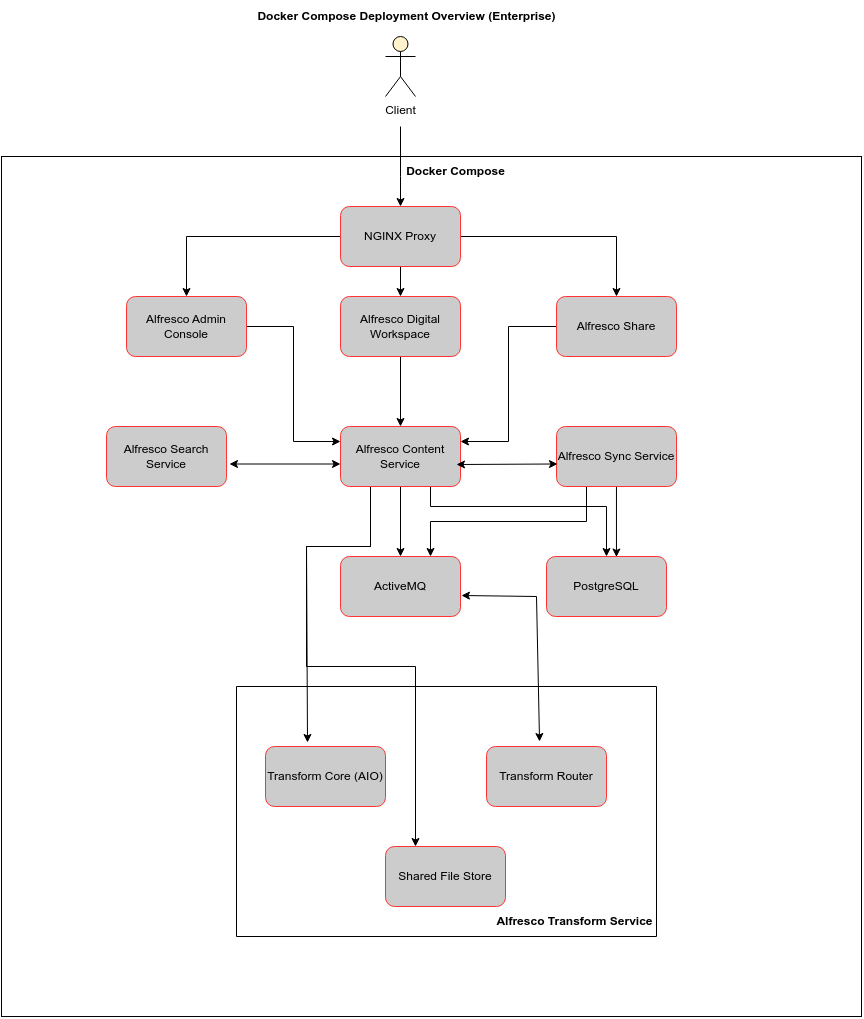
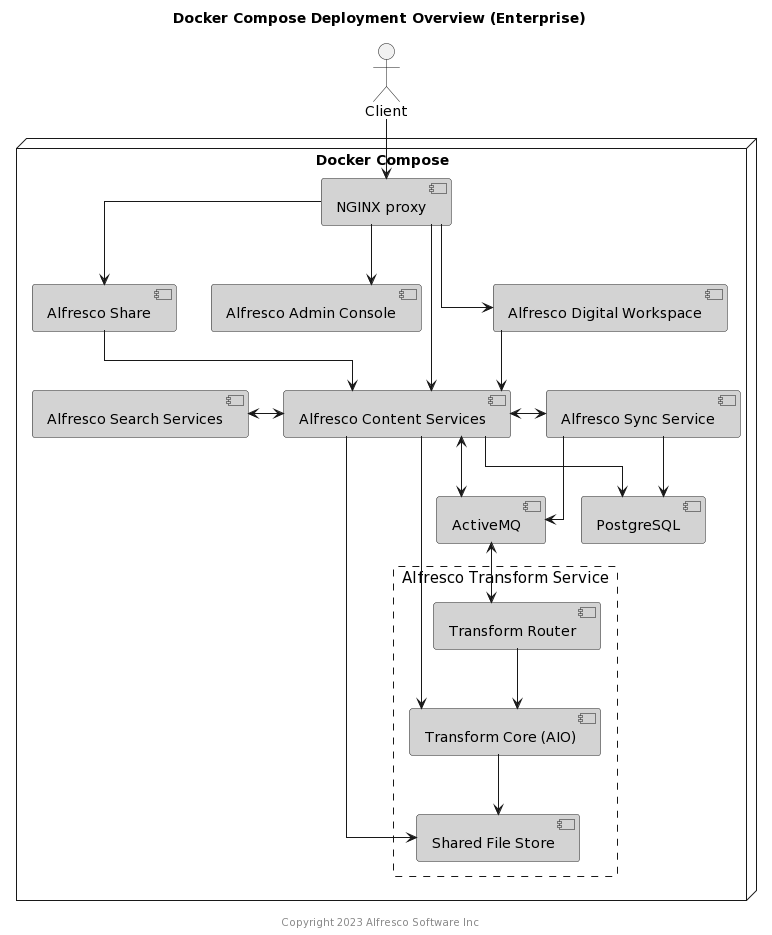
Update Source file with diagrams and README.md

diff --git a/README.md b/README.md
@@ -143,3 +143,16 @@ git push origin vx.x.x-SNAPSHOT --force
 ```
 
 Once the tagged workflow is successful, the release process has completed.
+
+##How to update workflow diagrams of Alfresco latest version.
+
+* Go to the `docs/docker-compose/diagrams` folder of the repository and there you will find 2 plantuml source files and 2 diagram files.
+* Update the plantuml(.puml) files for enterprise/community edition with latest changes as required.
+* Once you are done with the changes, you can generate the diagrams with 2 ways.
+
+1. You can update the diagrams with cli method. You need to have Java and Plantuml installed on your machine.
+
+   `java -jar plantuml.jar filename` 
+
+2. The other way to generate the diagrams is via official plantuml website. Just go to the below url and paste your puml code and click on submit.
+   `http://www.plantuml.com/plantuml/uml/SyfFKj2rKt3CoKnELR1Io4ZDoSa70000`
